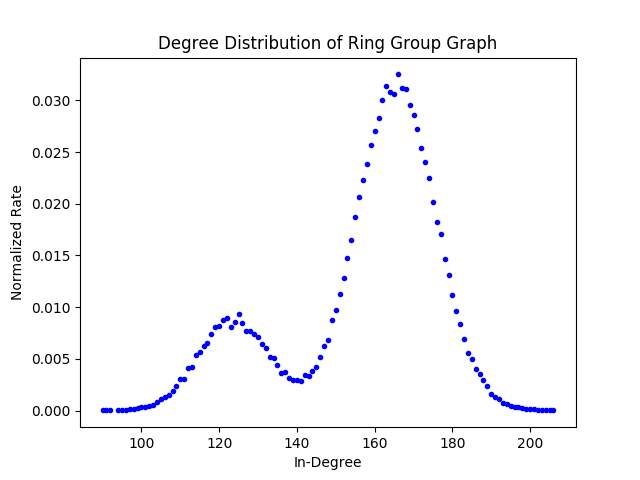
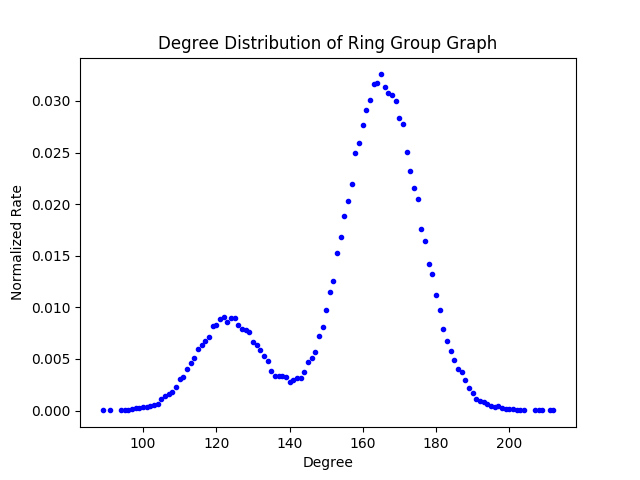
removed print statements from ring group graph function

diff --git a/q1-ring-group-graphs.py b/q1-ring-group-graphs.py
@@ -47,9 +47,6 @@ def make_ring_group_graph(m, k, p, q):
                 if random_number < q:
                     ring_group_graph[v].add(u)
                     ring_group_graph[u].add(v)
-
-    print("pass the group check",num_pass)
-    print("went for q",num_fail)
     return ring_group_graph
 
 
@@ -114,7 +111,7 @@ def create_degree_distribution_plot(degree_distribution, plot_file_name, plot_na
     plt.clf()
 
     # plot degree distribution
-    plt.xlabel('In-Degree')
+    plt.xlabel('Degree')
     plt.ylabel('Normalized Rate')
     plt.title('Degree Distribution of ' + plot_name)
     plt.plot(xdata, ydata, marker='.', linestyle='None', color='b')
@@ -123,7 +120,7 @@ def create_degree_distribution_plot(degree_distribution, plot_file_name, plot_na
 
 for i in range(1,25,5):
     p = round(0.25 + i/100, 2)
-    q = round(0.25 - i/100,2)
+    q = round(0.25 - i/100, 2)
     m = 100
     k = 10
     print(m,k,p,q)
